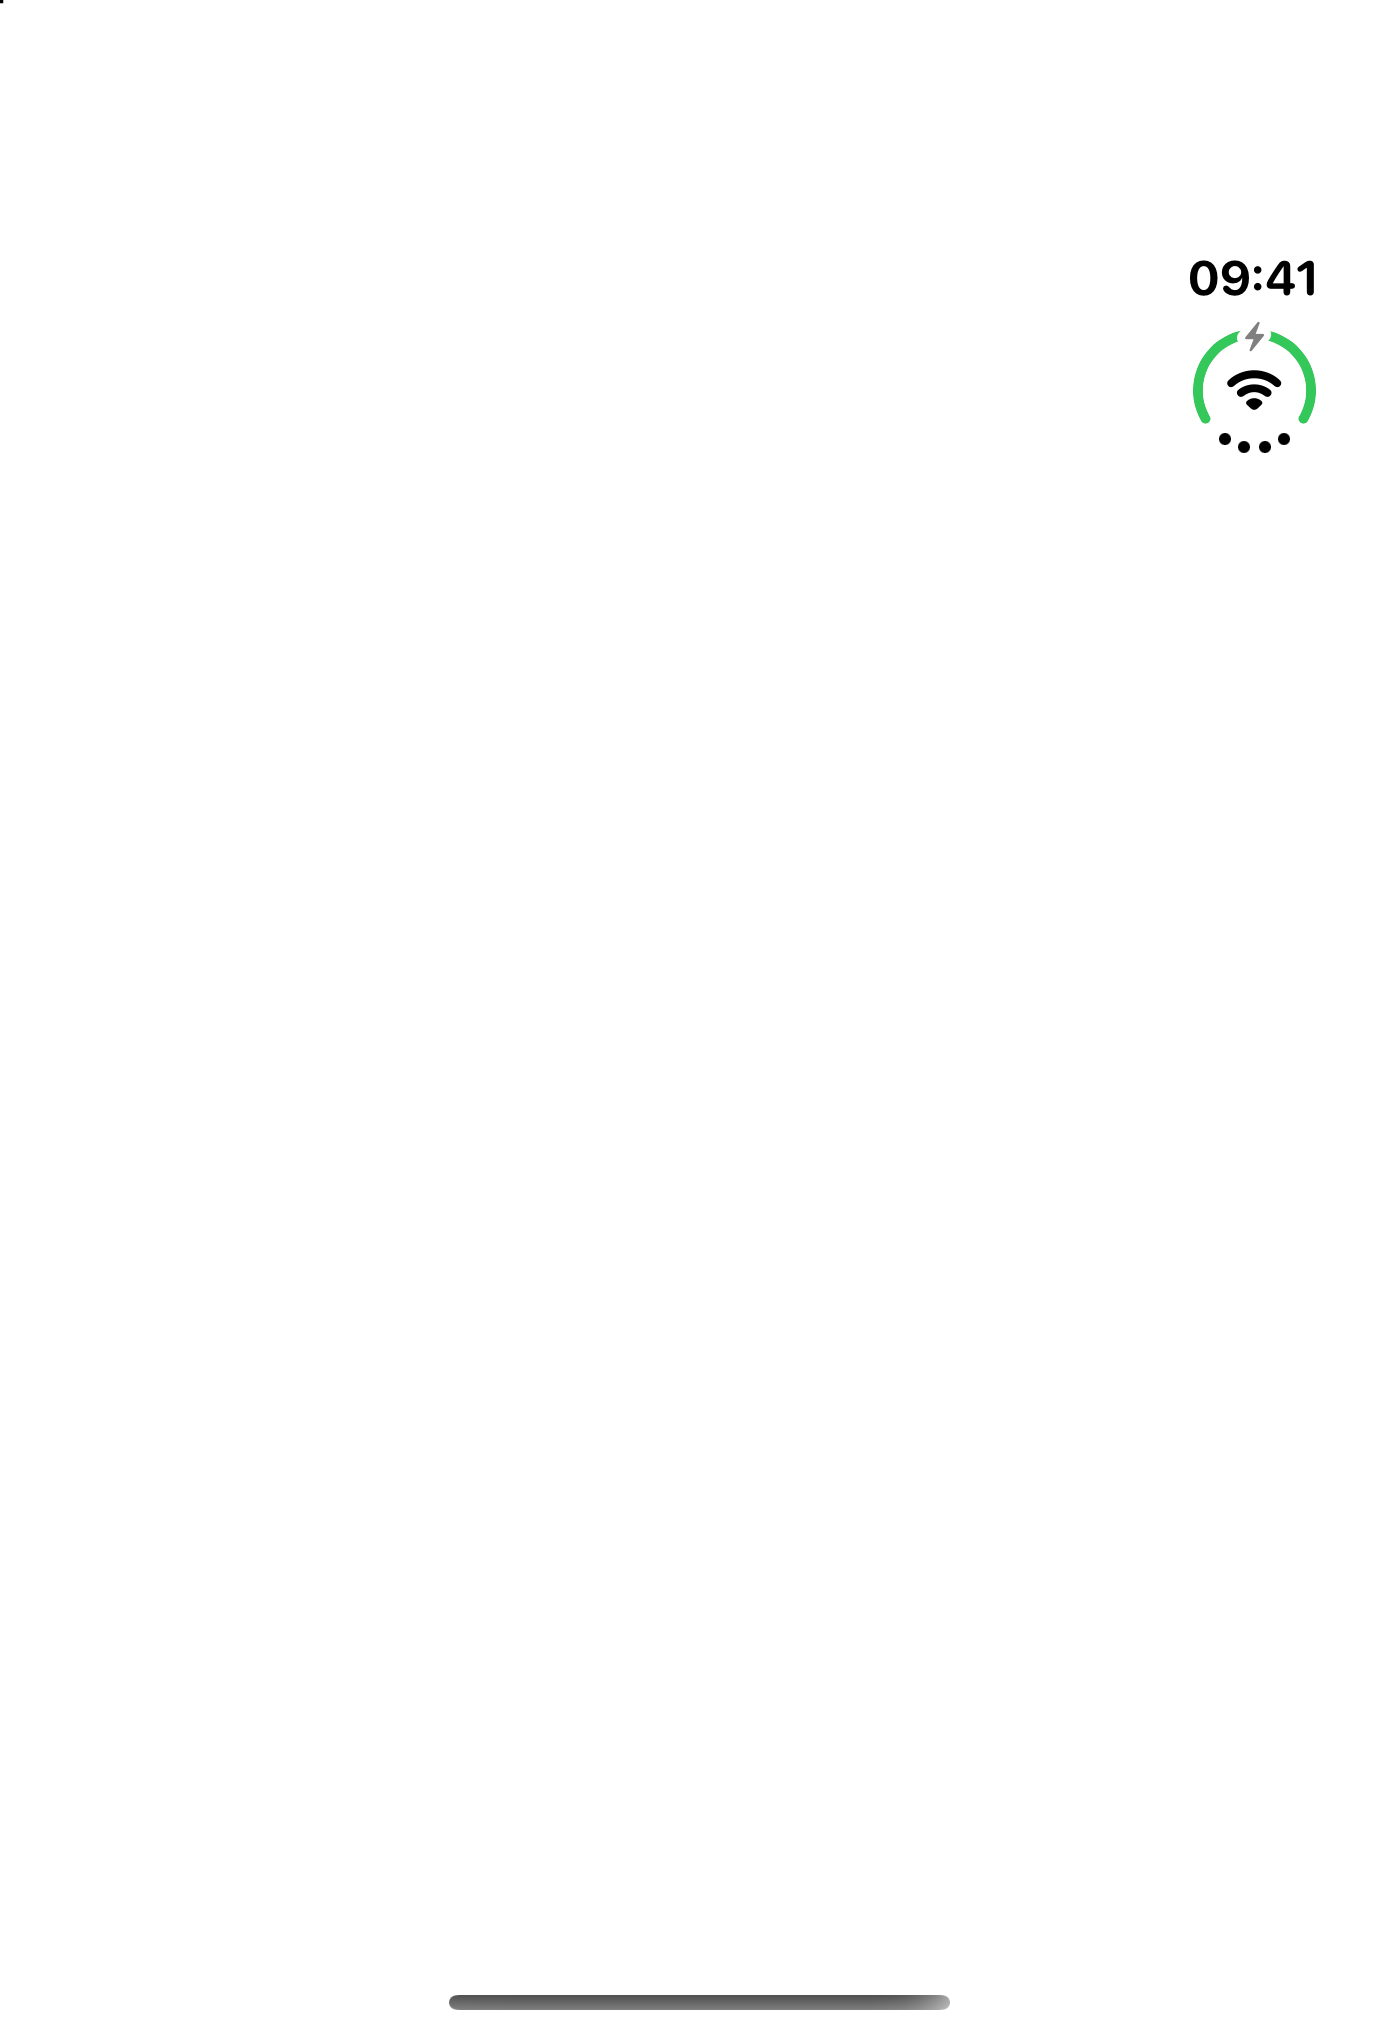
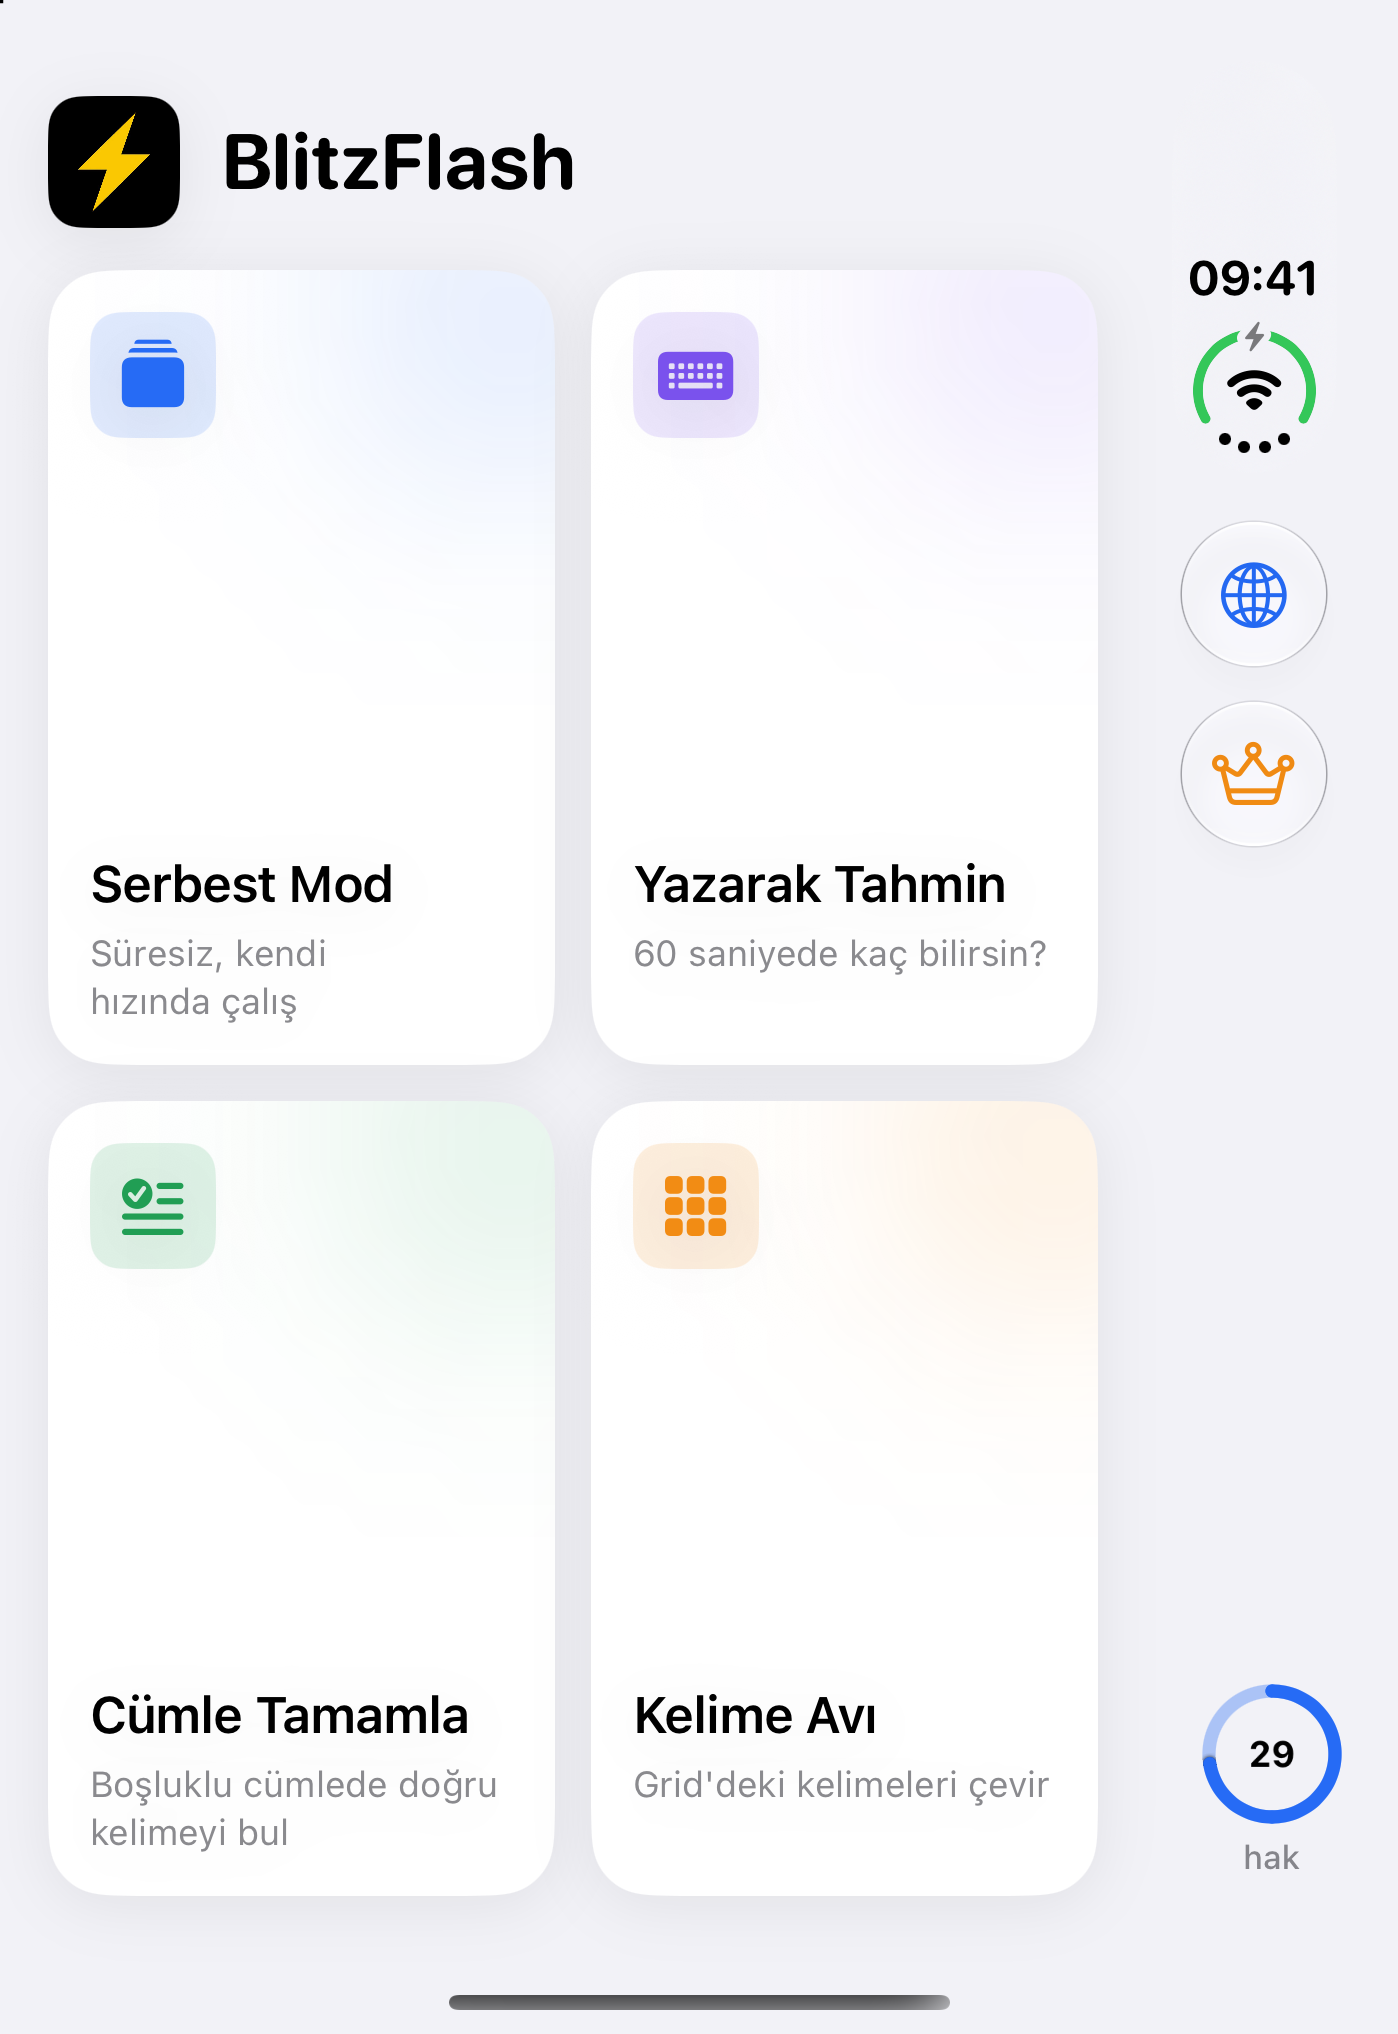
Başlıklı App Store tanıtım görselleri (compose.swift)

diff --git a/AppStoreMetadata/compose.swift b/AppStoreMetadata/compose.swift
@@ -1,0 +1,167 @@
+// App Store tanıtım görseli üretici (Fiyatmatik'teki compose.swift'in BlitzFlash uyarlaması).
+// Kullanım: swift AppStoreMetadata/compose.swift <ham-klasör> <çıktı-klasör>
+// Ham klasördeki simülatör görüntülerini (aşağıdaki `slides` listesi) üstte marka etiketi,
+// başlık ve alt başlık bulunan, modun renginde degrade arka planlı mağaza görsellerine çevirir.
+// Çıktı boyutu ham görüntüyle aynıdır, yani ASC'nin o yuva için istediği piksel boyutu.
+
+import AppKit
+
+struct Slide {
+    let file: String
+    let title: String
+    let subtitle: String
+    let tint: NSColor
+}
+
+func rgb(_ r: CGFloat, _ g: CGFloat, _ b: CGFloat) -> NSColor {
+    NSColor(srgbRed: r, green: g, blue: b, alpha: 1)
+}
+
+// BlitzTheme açık mod renkleri; her görsel gösterdiği modun rengini alır.
+let blue = rgb(0.15, 0.42, 0.96)
+let purple = rgb(0.48, 0.32, 0.93)
+let green = rgb(0.13, 0.62, 0.33)
+let orange = rgb(0.95, 0.55, 0.08)
+
+let slides: [Slide] = [
+    // iPhone 6.9"
+    Slide(file: "iphone69-1-ana", title: "Dört Modla Kelime Öğrenin", subtitle: "İngilizce, İspanyolca ve Çekçe", tint: blue),
+    Slide(file: "iphone69-2-serbest", title: "Kartı Çevir, Kaydır, Öğren", subtitle: "889 kelime, Türkçe okunuşuyla", tint: blue),
+    Slide(file: "iphone69-3-yazarak", title: "60 Saniyede Kaç Kelime?", subtitle: "Yazarak tahmin edin, puanınızı yükseltin", tint: purple),
+    Slide(file: "iphone69-4-cumle", title: "Doğru Kelimeyi Bulun", subtitle: "Örnek cümlelerle bağlam içinde öğrenin", tint: green),
+    Slide(file: "iphone69-5-av", title: "Kelime Avında Rekor Kırın", subtitle: "15 kart, her kelime için üç hak", tint: orange),
+    // iPhone Duo
+    Slide(file: "duo-ic-yatay-ana", title: "iPhone Duo'da İki Bölmeli Ekran", subtitle: "Bir yanda dil ve günlük hak, diğer yanda modlar", tint: blue),
+    Slide(file: "duo-ic-dik-serbest", title: "Yarı Açıkken Rahat Okuyun", subtitle: "Kart üst yarıda, düğmeler alt yarıda", tint: blue),
+    Slide(file: "duo-dis-ana", title: "Dış Ekranda Tek Bakışta", subtitle: "Günlük hakkınız kenar şeridinde", tint: blue),
+    Slide(file: "duo-ic-yatay-serbest", title: "Kart Bir Yanda, Cevaplar Diğer Yanda", subtitle: "Son kartlarınız hep göz önünde", tint: blue),
+    Slide(file: "duo-dis-serbest", title: "Katlıyken de Büyük Kart", subtitle: "Sayaçlar kenar şeridine taşındı", tint: blue),
+    Slide(file: "duo-ic-dik-av", title: "Kelime Avı Dizüstü Gibi", subtitle: "Soru üstte, kartlar parmağınızın altında", tint: orange),
+    Slide(file: "duo-ic-yatay-cumle", title: "Cümlede Doğru Kelimeyi Bulun", subtitle: "Soru bir yanda, seçenekler diğer yanda", tint: green),
+    Slide(file: "duo-dis-yazarak", title: "60 Saniyede Kaç Kelime?", subtitle: "Katlıyken de yazarak tahmin", tint: purple),
+]
+
+let args = CommandLine.arguments
+guard args.count == 3 else {
+    print("kullanım: swift compose.swift <ham> <çıktı>")
+    exit(1)
+}
+let rawDir = URL(fileURLWithPath: args[1])
+let outDir = URL(fileURLWithPath: args[2])
+try? FileManager.default.createDirectory(at: outDir, withIntermediateDirectories: true)
+let scriptDir = URL(fileURLWithPath: #filePath).deletingLastPathComponent()
+let logo = NSImage(contentsOf: scriptDir.appendingPathComponent("../BlitzFlash/Assets.xcassets/BlitzLogo.imageset/BlitzLogo.png"))
+
+func roundedFont(size: CGFloat, weight: NSFont.Weight) -> NSFont {
+    let base = NSFont.systemFont(ofSize: size, weight: weight)
+    guard let descriptor = base.fontDescriptor.withDesign(.rounded) else { return base }
+    return NSFont(descriptor: descriptor, size: size) ?? base
+}
+
+func drawCentered(_ text: String, font: NSFont, color: NSColor, centerX: CGFloat, topY: CGFloat, maxWidth: CGFloat) -> CGFloat {
+    let style = NSMutableParagraphStyle()
+    style.alignment = .center
+    let attributes: [NSAttributedString.Key: Any] = [.font: font, .foregroundColor: color, .paragraphStyle: style]
+    let string = NSAttributedString(string: text, attributes: attributes)
+    let bounds = string.boundingRect(with: CGSize(width: maxWidth, height: 10_000), options: [.usesLineFragmentOrigin])
+    let rect = CGRect(x: centerX - maxWidth / 2, y: topY - bounds.height, width: maxWidth, height: bounds.height)
+    string.draw(with: rect, options: [.usesLineFragmentOrigin])
+    return bounds.height
+}
+
+for slide in slides {
+    let rawURL = rawDir.appendingPathComponent(slide.file + ".png")
+    guard let shot = NSImage(contentsOf: rawURL),
+          let shotRep = shot.representations.first else { print("atlandı: \(slide.file)"); continue }
+    let width = CGFloat(shotRep.pixelsWide), height = CGFloat(shotRep.pixelsHigh)
+    let size = CGSize(width: width, height: height)
+    let isLandscape = width > height
+    let unit = min(width, height) / 100  // ölçek birimi
+
+    guard let rep = NSBitmapImageRep(bitmapDataPlanes: nil, pixelsWide: Int(width), pixelsHigh: Int(height),
+                                     bitsPerSample: 8, samplesPerPixel: 4, hasAlpha: true, isPlanar: false,
+                                     colorSpaceName: .deviceRGB, bytesPerRow: 0, bitsPerPixel: 0) else { continue }
+    rep.size = size
+    NSGraphicsContext.saveGraphicsState()
+    NSGraphicsContext.current = NSGraphicsContext(bitmapImageRep: rep)
+
+    // Arka plan: modun renginden koyu tonuna degrade, üstte hafif ışık
+    let dark = slide.tint.blended(withFraction: 0.72, of: rgb(0.04, 0.05, 0.12)) ?? .black
+    NSGradient(starting: slide.tint, ending: dark)?.draw(in: CGRect(origin: .zero, size: size), angle: -90)
+    let glowCenter = CGPoint(x: width / 2, y: height)
+    NSGradient(colors: [NSColor.white.withAlphaComponent(0.2), NSColor.white.withAlphaComponent(0)])?
+        .draw(fromCenter: glowCenter, radius: 0, toCenter: glowCenter, radius: max(width, height) * 0.55, options: [])
+
+    // Üst blok: logolu etiket, başlık, alt başlık (AppKit'te y aşağıdan yukarı artar)
+    var cursor = height - unit * (isLandscape ? 5 : 7)
+    let pillFont = roundedFont(size: unit * 2.6, weight: .heavy)
+    let pillText = NSAttributedString(string: "BLITZFLASH", attributes: [.font: pillFont, .foregroundColor: rgb(0.1, 0.12, 0.22), .kern: unit * 0.3])
+    let textSize = pillText.size()
+    let logoSize = textSize.height * 1.35
+    let pillWidth = logoSize + unit * 1.2 + textSize.width + unit * 5
+    let pillHeight = logoSize + unit * 1.4
+    let pillRect = CGRect(x: width / 2 - pillWidth / 2, y: cursor - pillHeight, width: pillWidth, height: pillHeight)
+    NSColor.white.withAlphaComponent(0.94).setFill()
+    NSBezierPath(roundedRect: pillRect, xRadius: pillHeight / 2, yRadius: pillHeight / 2).fill()
+    let logoRect = CGRect(x: pillRect.minX + unit * 2, y: pillRect.midY - logoSize / 2, width: logoSize, height: logoSize)
+    NSGraphicsContext.saveGraphicsState()
+    NSBezierPath(roundedRect: logoRect, xRadius: logoSize * 0.23, yRadius: logoSize * 0.23).addClip()
+    logo?.draw(in: logoRect)
+    NSGraphicsContext.restoreGraphicsState()
+    pillText.draw(at: CGPoint(x: logoRect.maxX + unit * 1.2, y: pillRect.midY - textSize.height / 2))
+    cursor = pillRect.minY - unit * 3
+
+    let textWidth = width * 0.88
+    cursor -= drawCentered(slide.title, font: roundedFont(size: unit * (isLandscape ? 6 : 7.2), weight: .bold),
+                           color: .white, centerX: width / 2, topY: cursor, maxWidth: textWidth)
+    cursor -= unit * 1.4
+    cursor -= drawCentered(slide.subtitle, font: NSFont.systemFont(ofSize: unit * (isLandscape ? 3 : 3.6), weight: .medium),
+                           color: NSColor.white.withAlphaComponent(0.82), centerX: width / 2, topY: cursor, maxWidth: textWidth)
+    cursor -= unit * (isLandscape ? 4 : 6)
+
+    // Ekran görüntüsü: kalan alana sığdır, köşeleri yuvarlat, gölge ver
+    let bottomMargin = unit * (isLandscape ? 4 : 6)
+    let availableHeight = cursor - bottomMargin
+    let availableWidth = width * (isLandscape ? 0.9 : 0.84)
+    let aspect = width / height
+    var shotWidth = availableWidth
+    var shotHeight = shotWidth / aspect
+    if shotHeight > availableHeight {
+        shotHeight = availableHeight
+        shotWidth = shotHeight * aspect
+    }
+    let shotRect = CGRect(x: width / 2 - shotWidth / 2, y: cursor - shotHeight, width: shotWidth, height: shotHeight)
+    let radius = unit * (isLandscape ? 4 : 6)
+
+    NSGraphicsContext.saveGraphicsState()
+    let shadow = NSShadow()
+    shadow.shadowColor = NSColor.black.withAlphaComponent(0.4)
+    shadow.shadowBlurRadius = unit * 4
+    shadow.shadowOffset = CGSize(width: 0, height: -unit * 1.5)
+    shadow.set()
+    NSColor.white.setFill()
+    NSBezierPath(roundedRect: shotRect, xRadius: radius, yRadius: radius).fill()
+    NSGraphicsContext.restoreGraphicsState()
+
+    NSGraphicsContext.saveGraphicsState()
+    NSBezierPath(roundedRect: shotRect, xRadius: radius, yRadius: radius).addClip()
+    shot.draw(in: shotRect)
+    NSGraphicsContext.restoreGraphicsState()
+
+    NSColor.white.withAlphaComponent(0.35).setStroke()
+    let border = NSBezierPath(roundedRect: shotRect.insetBy(dx: 1, dy: 1), xRadius: radius, yRadius: radius)
+    border.lineWidth = max(2, unit * 0.3)
+    border.stroke()
+
+    NSGraphicsContext.restoreGraphicsState()
+
+    // ASC alfa kanallı görseli reddedebilir: alfasız JPEG yaz.
+    guard let cg = rep.cgImage,
+          let ctx = CGContext(data: nil, width: Int(width), height: Int(height), bitsPerComponent: 8, bytesPerRow: 0,
+                              space: CGColorSpace(name: CGColorSpace.sRGB)!, bitmapInfo: CGImageAlphaInfo.noneSkipLast.rawValue) else { continue }
+    ctx.draw(cg, in: CGRect(origin: .zero, size: size))
+    guard let flat = ctx.makeImage() else { continue }
+    let outURL = outDir.appendingPathComponent("\(slide.file).jpg")
+    try NSBitmapImageRep(cgImage: flat).representation(using: .jpeg, properties: [.compressionFactor: 0.92])?.write(to: outURL)
+    print("\(outURL.lastPathComponent) \(Int(width))x\(Int(height))")
+}
